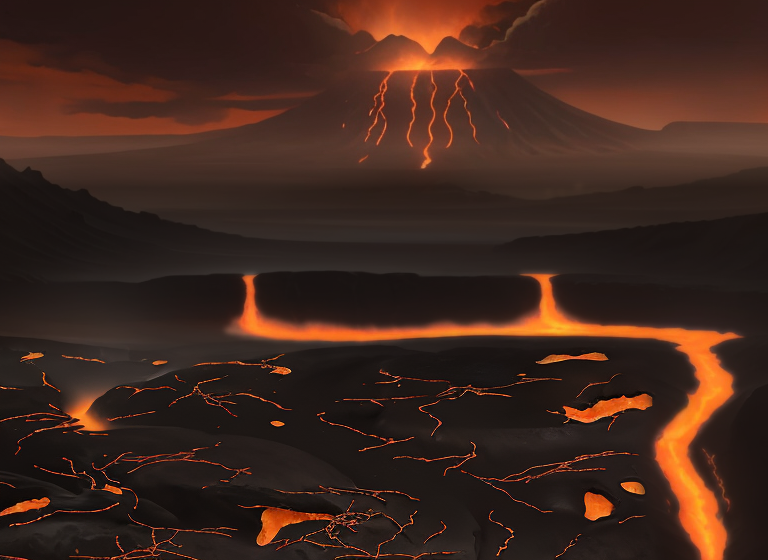
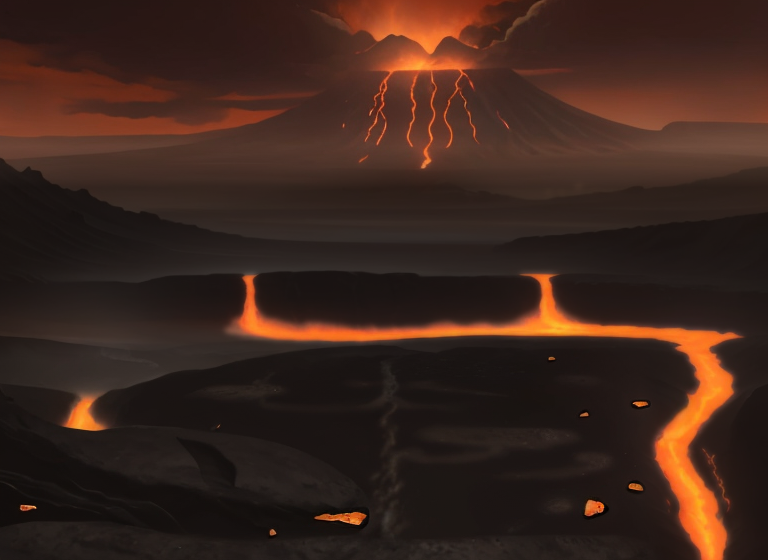
Inferno: portale z głębią (tunel i warstwy wiru), mniej lawy i bez pęknięć z przodu, ostrzejszy dalszy plan (drugie przejście polany: wyostrzenie jasności, odmglenie)
Claude-Session: https://claude.ai/code/session_01ACpgVGYFhc89V1nkQx4Yem

diff --git a/tools/grafika3d/budowle-inferno.js b/tools/grafika3d/budowle-inferno.js
@@ -36,6 +36,18 @@ function ifDemonHead(g, R, x, y, z) { const hd = sph(R / PXU, IF.bas, 'rock', P(
   for (let i = 0; i < 7; i++) { const tx = x - R * 0.48 + i * R * 0.16, big = i === 1 || i === 5; g.add(cone(R * (big ? 0.07 : 0.05) / PXU, R * (big ? 0.34 : 0.2) / PXU, IF.bone, 'bone', P(tx, y + R * 0.7, z + R * 1.0), [Math.PI, 0, 0], 6));
     g.add(cone(R * 0.05 / PXU, R * (big ? 0.3 : 0.18) / PXU, IF.bone, 'bone', P(tx + R * 0.06, y + R * 0.38, z + R * 1.0), null, 6)); }
   for (const s of [-1, 1]) { ifHornS(g, x + s * R * 0.8, y + R * 1.45, z, R / 22, s); g.add(cone(R * 0.08 / PXU, R * 0.4 / PXU, IF.bone, 'bone', P(x + s * R * 0.62, y + R * 0.28, z + R * 0.75), [0.4, 0, -s * 0.6], 6)); } }
+// Portal z głębią: tunel w głąb bryły (ściany i stopniowo węższe ościeża), na dnie świecąca tafla, po drodze półprzezroczyste warstwy wiru
+function ifPortalRect(g, x, y, z, w, h, D, col = '#ff6a20') { const wall = IF.basD;
+  for (let i = 0; i < 3; i++) { const k = 1 - i * 0.12, zz = z - i * D / 3, d3 = D / 3; for (const s of [-1, 1]) g.add(blk(4, h * k, d3, wall, 'ashlar', x + s * (w * k / 2 + 2), y, zz - d3 / 2)); g.add(blk(w * k + 8, 4, d3, wall, 'ashlar', x, y + h * k, zz - d3 / 2)); }
+  const b = blk(w * 0.76, h * 0.76, 1, col, 'win', x, y, z - D); b.material = lightMat(col); g.add(b);
+  for (let i = 1; i <= 3; i++) { const k = 0.95 - i * 0.07, pl = blk(w * k, h * k, 0.4, col, 'win', x, y, z - D * i / 4); pl.material = lightMat(col); pl.material.transparent = true; pl.material.opacity = 0.18 + i * 0.06; g.add(pl);
+    g.add(torus(Math.min(w, h) * k * 0.3 / PXU, 0.6 / PXU, LT(col, 0.3), 'glow', P(x, y + h * k * 0.5, z - D * i / 4 + 0.3), [0, 0, i])); }
+  glowMark(g, x, y + h / 2, z + 2, Math.max(w, h) * 0.5, col); }
+function ifPortalRound(g, x, y, z, R, D, col = '#ff5a20') { const tube = cyl3(R, R, D, IF.basD, 'ashlar', 0, 0, 0, 28, true); tube.material = tube.material.clone(); tube.material.side = THREE.DoubleSide; tube.rotation.x = Math.PI / 2; tube.position.set(...P(x, y, z - D / 2)); g.add(tube);
+  const back = cyl3(R, R, 1, col, 'win', 0, 0, 0, 28); back.material = lightMat(col); back.rotation.x = Math.PI / 2; back.position.set(...P(x, y, z - D)); g.add(back);
+  for (let i = 1; i <= 3; i++) { const d = cyl3(R * (1 - i * 0.12), R * (1 - i * 0.12), 0.4, col, 'win', 0, 0, 0, 24); d.material = lightMat(LT(col, 0.15 * i)); d.material.transparent = true; d.material.opacity = 0.16 + i * 0.07; d.rotation.x = Math.PI / 2; d.position.set(...P(x, y, z - D * i / 4)); g.add(d);
+    g.add(torus(R * (0.75 - i * 0.15) / PXU, 0.7 / PXU, LT(col, 0.35), 'glow', P(x, y, z - D * i / 4 + 0.3))); }
+  glowMark(g, x, y, z + 2, R, col); }
 // Jezioro / rzeka lawy: świecąca tafla z bazaltowym brzegiem
 function ifLava(x, z, w, d, seg = 20) { const g = new THREE.Group(); const b = cyl3(w / 2 + 4, w / 2 + 6, 1.6, IF.basD, 'rock', x, 0, z, seg); b.scale.z = d / w; g.add(b);
   const l = cyl3(w / 2, w / 2, 1.2, IF.lava, 'win', x, 0.8, z, seg); l.material = lightMat('#ff7a24'); l.scale.z = d / w; g.add(l); glowMark(g, x, 3, z, w * 0.4, IF.lava); return g; }
@@ -86,11 +98,11 @@ const INFERNO3 = {
     const g = new THREE.Group(); for (const [x, r, h] of [[-14, 12, 34], [14, 10, 28]]) { g.add(cyl3(r, r, h, IF.iron, 'iron', x, 0, -6, 14)); for (const y of [6, h - 6]) g.add(torus(r / PXU, 0.9 / PXU, '#4a3e40', 'iron', P(x, y, -6), [Math.PI / 2, 0, 0])); g.add(cone(r * 1.1 / PXU, r * 0.8 / PXU, IF.roofD, 'tiles', P(x, h + r * 0.4, -6), null, 14)); }
     const ch = blk(4, 2, 24, IF.iron, 'iron', 6, 14, 12); ch.rotation.x = 0.5; g.add(ch);
     for (const [x, z, r] of [[-28, 16, 10], [26, 18, 8], [6, 24, 7]]) g.add(sph(r / PXU, IF.sulf, 'rock', P(x, 0, z), [1, 0.7, 1], 10)); return g; },
-  special() { // Brama piekieł: wielki pierścień z bazaltu na schodach, w środku wir ognia, rogi i kolce
-    const g = new THREE.Group(); g.add(blk(80, 6, 40, IF.basD, 'ashlar', 0, 0, 0)); g.add(blk(64, 6, 30, IF.bas, 'ashlar', 0, 6, 0));
-    g.add(torus(30 / PXU, 6 / PXU, IF.bas, 'ashlar', P(0, 44, 0), null, null)); const v = cyl3(26, 26, 2, IF.lava, 'win', 0, 0, 0, 28); v.material = lightMat('#ff5a20'); v.material.transparent = true; v.material.opacity = 0.75; v.rotation.x = Math.PI / 2; v.position.set(...P(0, 44, 0)); g.add(v);
-    g.add(torus(16 / PXU, 2 / PXU, IF.purple, 'glow', P(0, 44, 1.5))); glowMark(g, 0, 44, 4, 34, IF.lava); for (const s of [-1, 1]) g.add(ifBowl(s * 44, 14, 14));
-    for (let i = 0; i < 8; i++) { const a = Math.PI * (0.05 + i * 0.128); g.add(cone(2 / PXU, 9 / PXU, IF.iron, 'iron', P(Math.cos(a) * 37, 44 + Math.sin(a) * 37, 0), [0, 0, a - Math.PI / 2], 5)); } return g; },
+  special() { // Brama piekieł: gruby pierścień-tunel z bazaltu na schodach, w głębi wir ognia, misy ognia i kolce
+    const g = new THREE.Group(); g.add(blk(84, 6, 44, IF.basD, 'ashlar', 0, 0, -6)); g.add(blk(68, 6, 34, IF.bas, 'ashlar', 0, 6, -6));
+    const outer = cyl3(36, 36, 26, IF.bas, 'ashlar', 0, 0, 0, 28, true); outer.rotation.x = Math.PI / 2; outer.position.set(...P(0, 44, -8)); g.add(outer); g.add(torus(32 / PXU, 5 / PXU, IF.basL, 'ashlar', P(0, 44, 5)));
+    ifPortalRound(g, 0, 44, 5.5, 28, 24); for (const s of [-1, 1]) g.add(ifBowl(s * 46, 14, 12));
+    for (let i = 0; i < 8; i++) { const a = Math.PI * (0.05 + i * 0.128); g.add(cone(2.4 / PXU, 10 / PXU, IF.iron, 'iron', P(Math.cos(a) * 40, 44 + Math.sin(a) * 40, -4), [0, 0, a - Math.PI / 2], 5)); } return g; },
   grail() { // Ołtarz Ognia: kolosalna schodkowa piramida z bazaltu otoczona rzekami lawy, na szczycie olbrzymia misa z kolumną ognia, rogate obeliski i łuk z rogów
     const g = new THREE.Group(); g.add(ifLava(0, 0, 230, 150, 28)); for (let i = 0; i < 5; i++) { const k = 1 - i * 0.17; g.add(blk(170 * k, 22, 120 * k, i % 2 ? IF.basD : IF.bas, 'ashlar', 0, i * 22, -10)); g.add(blk(170 * k + 3, 2.4, 120 * k + 3, IF.lava, 'glow', 0, (i + 1) * 22 - 1.2, -10)); }
     g.add(blk(26, 110, 14, IF.basL, 'ashlar', 0, 0, 46)); /* schody */ for (const s of [-1, 1]) { const f = blk(8, 110, 2, IF.lava, 'win', s * 18, 0, 48); f.material = lightMat('#ff6a1a'); g.add(f); } /* spływająca lawa */
@@ -120,7 +132,7 @@ const INFERNO3 = {
     return g; },
   dw4(t) { // brama demonów: dwa bazaltowe pylony z łukiem i ognisty portal; 2: wrota rogatych – rogi i kolce; 3: brama zagłady – wyższe pylony, fiolet zagłady
     const g = new THREE.Group(), H = t >= 3 ? 70 : 56; for (const s of [-1, 1]) { g.add(blk(16, H, 16, IF.bas, 'ashlar', s * 28, 0, -6)); g.add(cone(9 / PXU, 20 / PXU, IF.roof, 'tiles', P(s * 28, H + 10, -6), [0, Math.PI / 4, 0], 4)); }
-    g.add(blk(72, 12, 16, IF.basD, 'ashlar', 0, H - 12, -6)); const pt = blk(40, H - 12, 2, t >= 3 ? IF.purple : IF.lava, 'win', 0, 0, -6); pt.material = lightMat(t >= 3 ? '#b060ff' : '#ff6a20'); pt.material.transparent = true; pt.material.opacity = 0.8; g.add(pt); glowMark(g, 0, H / 2, -4, 30, t >= 3 ? IF.purple : IF.lava);
+    g.add(blk(72, 12, 22, IF.basD, 'ashlar', 0, H - 12, -6)); ifPortalRect(g, 0, 0, 4, 38, H - 14, 22, t >= 3 ? '#b060ff' : '#ff6a20');
     g.add(creature(t >= 3 ? 'doomDemon' : t >= 2 ? 'hornedDemon' : 'demon', 30, 0, 24, 0.55, -Math.PI / 2 + 0.5)); return g; },
   dw5(t) { // szyb czartów: okrągły szyb z płonącą otchłanią i żurawiem z łańcuchem; 2: otchłań władców – wieżyczki; 3: tron Otchłani – bazaltowy tron nad szybem
     const g = new THREE.Group(); g.add(cyl3(30, 32, 10, IF.bas, 'ashlar', 0, 0, -6, 18)); const pit = cyl3(24, 24, 1, IF.lava, 'win', 0, 10, -6, 18); pit.material = lightMat('#ff5a18'); g.add(pit); glowMark(g, 0, 16, -6, 30, IF.lava);
@@ -136,7 +148,7 @@ const INFERNO3 = {
     g.add(creature(t >= 3 ? 'flameLord' : t >= 2 ? 'efreetSultan' : 'efreet', 40, 0, 28, 0.32, -Math.PI / 2 + 0.6)); return g; },
   dw7(t) { // wrota piekieł: olbrzymie wrota wykute w skale, za nimi łuna lawy, diabeł na schodach; 2: tron ognia – tron nad wrotami; 3: serce piekieł – pulsujące serce lawy i iglice
     const g = new THREE.Group(), k = t >= 3 ? 1.2 : 1; g.add(boulder(0, 0, -30, 70 * k, '#3e3034', 70, 0.8)); g.add(boulder(-58 * k, 0, -10, 34, '#46383a', 71, 0.8)); g.add(boulder(58 * k, 0, -14, 38, '#46383a', 72, 0.8));
-    g.add(blk(60, 70, 12, IF.basD, 'ashlar', 0, 0, 22)); const gate = blk(40, 56, 2, IF.lava, 'win', 0, 0, 28.5); gate.material = lightMat('#ff5a18'); g.add(gate); glowMark(g, 0, 28, 32, 36, IF.lava);
+    for (const sx of [-1, 1]) g.add(blk(14, 70, 26, IF.basD, 'ashlar', sx * 25, 0, 16)); g.add(blk(64, 14, 26, IF.basD, 'ashlar', 0, 56, 16)); ifPortalRect(g, 0, 0, 28, 36, 54, 24, '#ff5a18');
     for (let i = 0; i < 5; i++) g.add(blk(2, 56, 1.6, IF.iron, 'iron', -16 + i * 8, 0, 29.6));
     for (let i = 0; i < 4; i++) g.add(blk(60 - i * 8, 3, 8, IF.basL, 'ashlar', 0, i * 3, 34 + 8 - i * 2.5)); g.add(ifLava(0, 46, 120 * k, 14));
     if (t >= 2) { g.add(blk(24, 36, 12, IF.basD, 'ashlar', 0, 70, 18)); g.add(blk(30, 8, 20, IF.bas, 'ashlar', 0, 70, 24)); ifFire(g, -16, 78, 24); ifFire(g, 16, 78, 24); }

diff --git a/tools/tla-ai/polana.py b/tools/tla-ai/polana.py
@@ -5,7 +5,7 @@
 import json, os, sys, numpy as np
 from PIL import Image, ImageDraw, ImageFilter
 fac, out = sys.argv[1], sys.argv[2]; strength = float(sys.argv[3]) if len(sys.argv) > 3 else 0.45; seed = int(sys.argv[4]) if len(sys.argv) > 4 else 7
-U = json.load(open(f'uklady/{fac}.json')); M = json.load(open(f'uklady/{fac}-wymiary.json')); P = U['polana']
+U = json.load(open(f'uklady/{fac}.json')); M = json.load(open(f'uklady/{fac}-wymiary.json')); P = U[os.environ.get('KLUCZ', 'polana')]  # KLUCZ=polana_tyl: drugie przejście (np. dalszy plan)
 hor, d, f = U['pj']['hor'], U['pj']['d'], U['pj']['f']
 im = Image.open('tla/' + P['zrodlo']).convert('RGB'); W, H = im.size; S = W / 576.0; a0 = np.asarray(im).astype(np.float32)
 def I(x, y): return ((x - 8) * S, (y - 8) * S)  # kadr gry -> piksele obrazu
@@ -98,6 +98,10 @@ if P.get('pekniecia'):  # sieć pęknięć w spieczonej skorupie: ciemna szczeli
             k = 0.3 + (y / S + 8 - hor) / 300; a += (rng.random() - 0.5) * 1.2; x += np.cos(a) * 9 * k * S; y += np.sin(a) * 3 * k * S; pts.append((x, y))
         k = 0.3 + (y / S + 8 - hor) / 300; td.line(pts, fill=(14, 8, 8), width=max(1, int(2.4 * k * S))); td.line(pts, fill=tuple(P.get('pekniecia_kolor', [255, 110, 30])), width=max(1, int(0.9 * k * S)))
     teren = np.asarray(T).astype(np.float32)
+if P.get('wyostrz'):  # dalszy plan bez mgły: lokalny kontrast i wyostrzenie przed AI
+    r_, pc = P['wyostrz']; gr = Image.fromarray(teren.mean(-1).clip(0, 255).astype(np.uint8))  # tylko jasność (bez barwnych obwódek)
+    teren = teren + (np.asarray(gr.filter(ImageFilter.UnsharpMask(radius=r_ * S, percent=pc, threshold=0))).astype(np.float32) - np.asarray(gr).astype(np.float32))[..., None]
+    if P.get('odmglij'): m = np.asarray(Image.fromarray(teren.clip(0, 255).astype(np.uint8)).filter(ImageFilter.GaussianBlur(30 * S))).astype(np.float32); teren = teren * (1 + P['odmglij']) - m * P['odmglij']
 szkic = np.where(G[..., None], teren, a0)
 sz = Image.fromarray(szkic.clip(0, 255).astype(np.uint8)); sz.save(out.replace('.png', '-szkic.png'))
 if os.environ.get('SZKIC'): print(out.replace('.png', '-szkic.png')); sys.exit()
